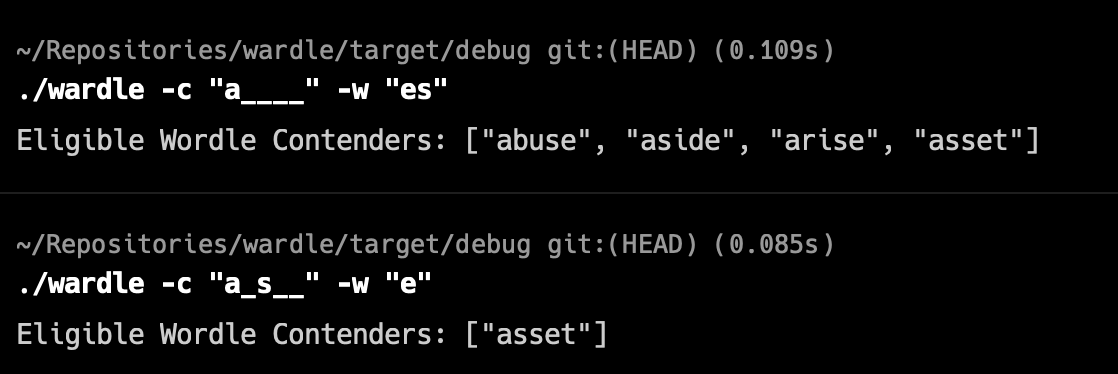
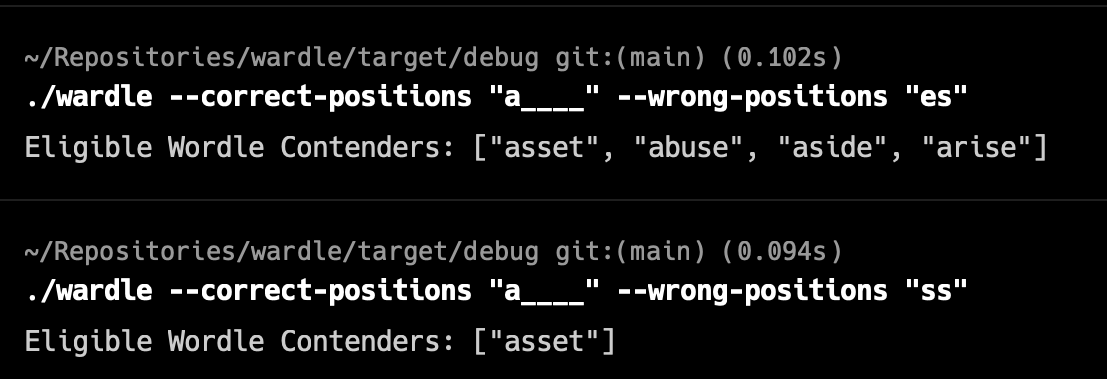
Updated example images and renamed 'correct' parameter to 'correct_positions'

diff --git a/src/main.rs b/src/main.rs
@@ -16,7 +16,7 @@ struct Args {
     /// other unknown characters. ex. The word video might look like the following when
     /// the i and d have not been discovered: v__eo
     #[clap(short, long)]
-    correct: Option<String>,
+    correct_positions: Option<String>,
 
     /// The letters that are in the word but not in the correct position
     #[clap(short, long)]

diff --git a/src/predicate.rs b/src/predicate.rs
@@ -63,7 +63,7 @@ impl WordlePredicate {
 
 impl From<Args> for WordlePredicate {
     fn from(args: Args) -> Self {
-        WordlePredicate::new(args.wrong_positions, args.correct)
+        WordlePredicate::new(args.wrong_positions, args.correct_positions)
     }
 }
 

diff --git a/README.md b/README.md
@@ -5,5 +5,5 @@ Simply provide the values you have and let wardle do the fighting.
 
 ![Preview image of usage](examples/usage.png)
 
-![Preview image of help prompt](examples/help-prompt.png)
+![Preview image of help prompt](examples/help.png)
 
